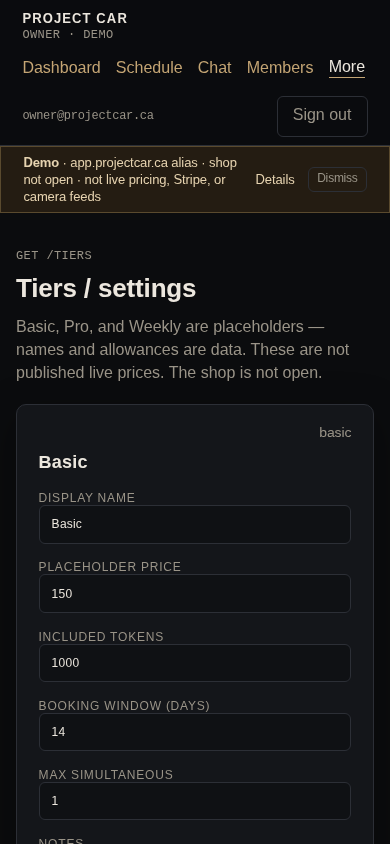
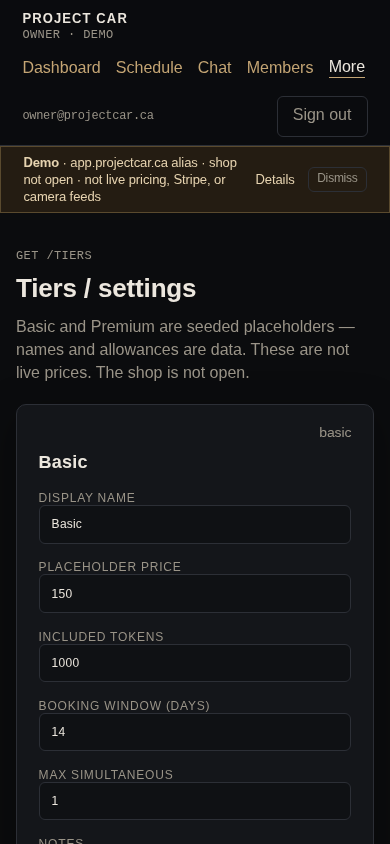
Name Basic and Premium on the tiers page (#119)
* Prove the tiers page still names Pro and Weekly.

test_tiers_copy_names_basic_and_premium reads the tiers lede and fails while the page still says Pro and Weekly.

* Name Basic and Premium on the tiers page.

The lede calls Basic and Premium the seeded placeholders, says names and allowances are data, and says these are not live prices. The shop is not open stays. Visual references updated for /tiers only.

---------

Changed region(s): [[0.0308, 0.4313, 0.8, 0.4621], [0.1538, 0.3697, 0.8615, 0.4005]]

diff --git a/apps/project-car/web/lib/tiers-copy.test.ts b/apps/project-car/web/lib/tiers-copy.test.ts
@@ -1,0 +1,30 @@
+import assert from "node:assert/strict";
+import { readFileSync } from "node:fs";
+import { dirname, join } from "node:path";
+import { describe, it } from "node:test";
+import { fileURLToPath } from "node:url";
+
+const pagePath = join(dirname(fileURLToPath(import.meta.url)), "../app/tiers/page.tsx");
+
+const SEEDED_LEDE =
+  "Basic and Premium are seeded placeholders — names and allowances are data. These are not live prices. The shop is not open.";
+
+function ledeText(source: string): string {
+  const match = source.match(/<p className="lede">([\s\S]*?)<\/p>/);
+  assert.ok(match, "tiers page is missing the lede");
+  return match[1].replace(/\s+/g, " ").trim();
+}
+
+describe("tiers page copy", () => {
+  it("test_tiers_copy_names_basic_and_premium", () => {
+    const source = readFileSync(pagePath, "utf8");
+    const retired = ["Pro", "Weekly"].filter((name) => new RegExp(`\\b${name}\\b`).test(source));
+    assert.deepEqual(retired, [], `tiers page still names retired tiers: ${retired.join(", ")}`);
+    assert.equal(ledeText(source), SEEDED_LEDE);
+    assert.match(source, /name="price"/);
+    assert.match(source, /name="included_tokens"/);
+    assert.match(source, /name="booking_window_days"/);
+    assert.match(source, /name="max_simultaneous_bookings"/);
+    assert.match(source, /name="notes"/);
+  });
+});

diff --git a/apps/project-car/web/app/tiers/page.tsx b/apps/project-car/web/app/tiers/page.tsx
@@ -19,8 +19,8 @@ export default async function TiersPage({
         <p className="eyebrow">GET /tiers</p>
         <h1>Tiers / settings</h1>
         <p className="lede">
-          Basic, Pro, and Weekly are placeholders — names and allowances are
-          data. These are not published live prices. The shop is not open.
+          Basic and Premium are seeded placeholders — names and allowances are
+          data. These are not live prices. The shop is not open.
         </p>
         {params.error ? <div className="banner error">{params.error}</div> : null}
 
